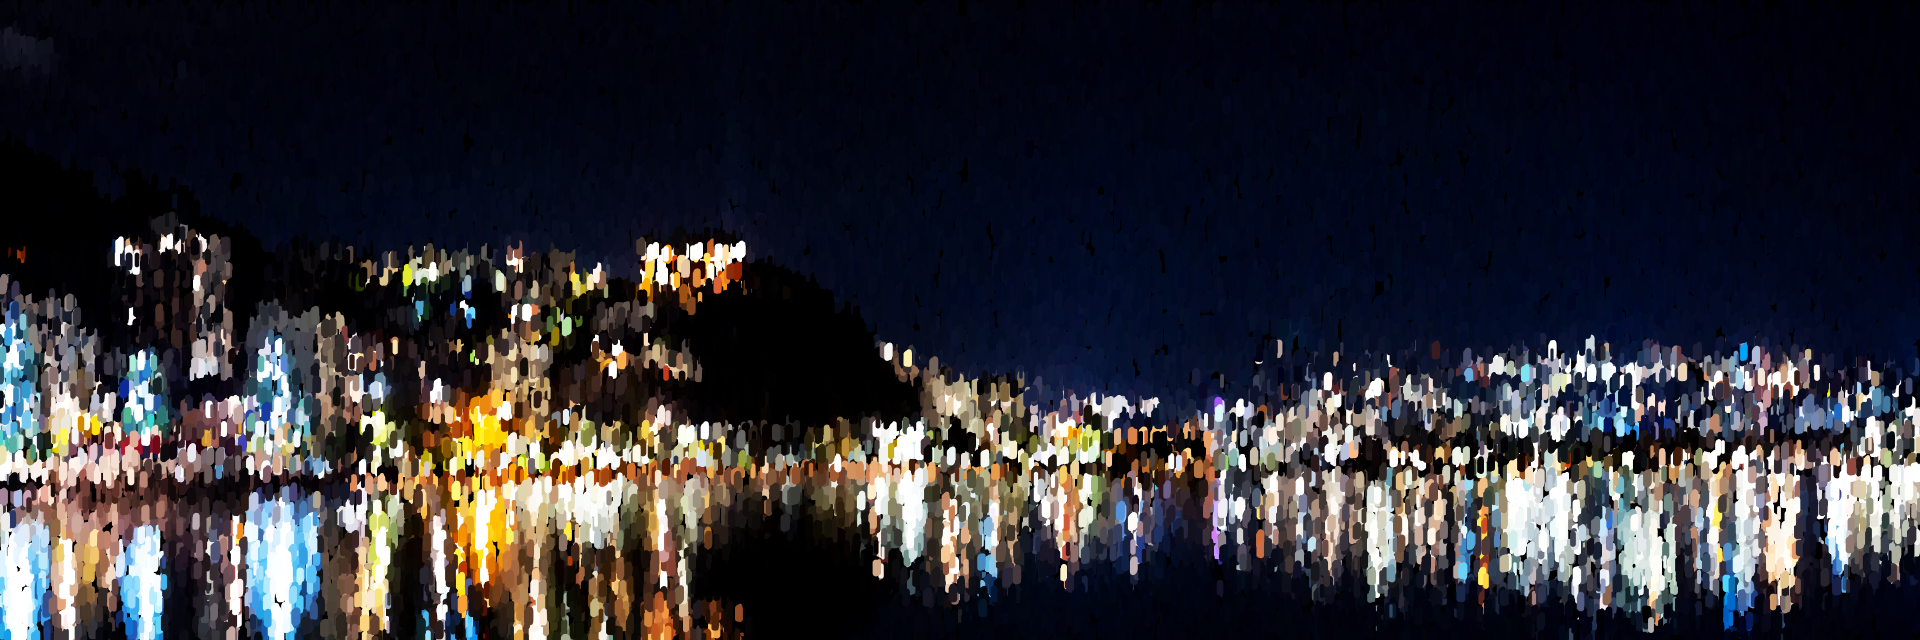
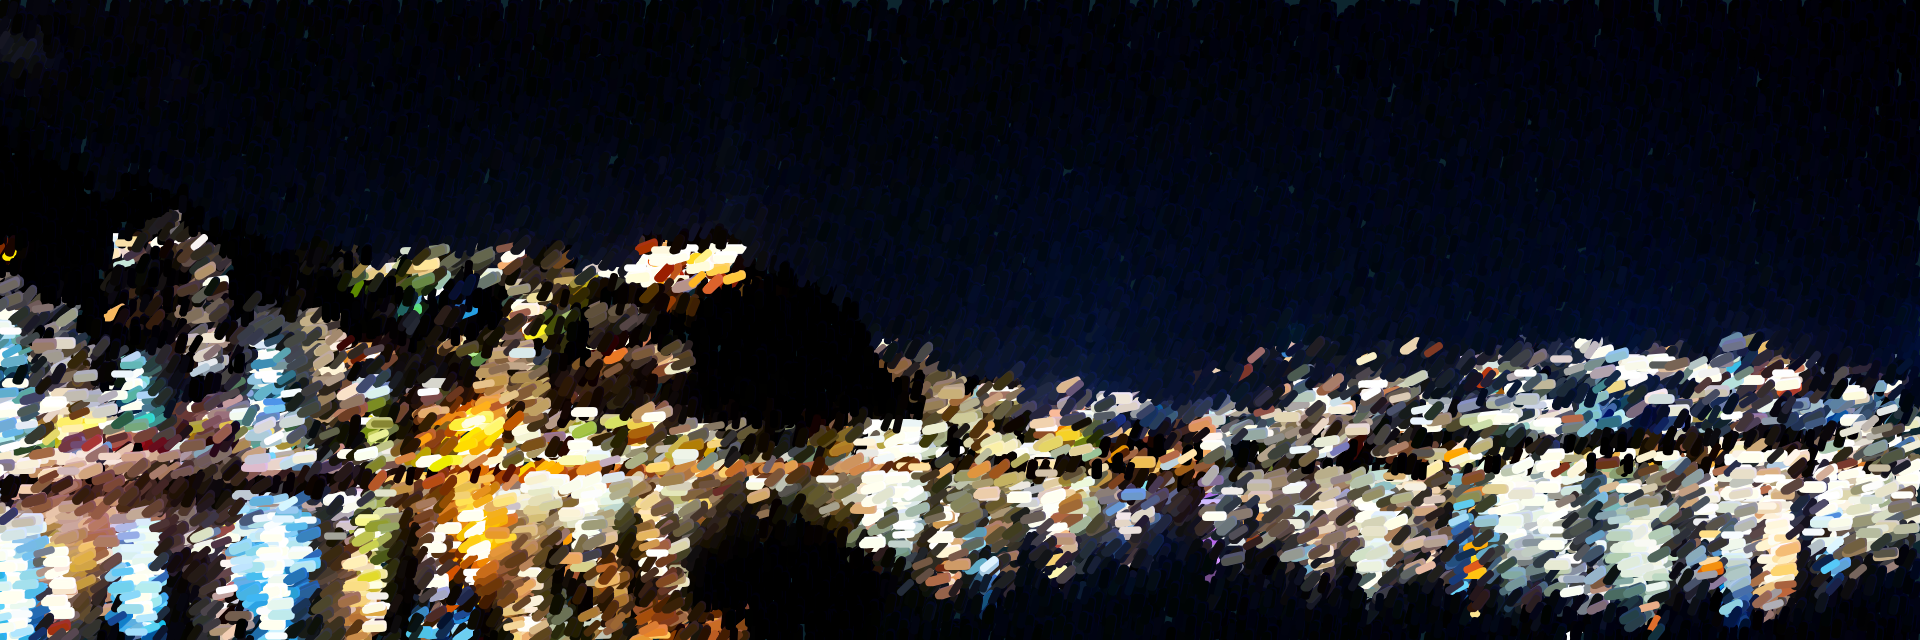
Fix accidental image revert

diff --git a/sketch.js b/sketch.js
@@ -39,7 +39,7 @@ function draw () {
   if(renderCounter > 10) {
     console.log("Done!")
     noLoop();
-    //saveArtworkImage(outputFile);
+    saveArtworkImage(outputFile);
   }
 }
 
